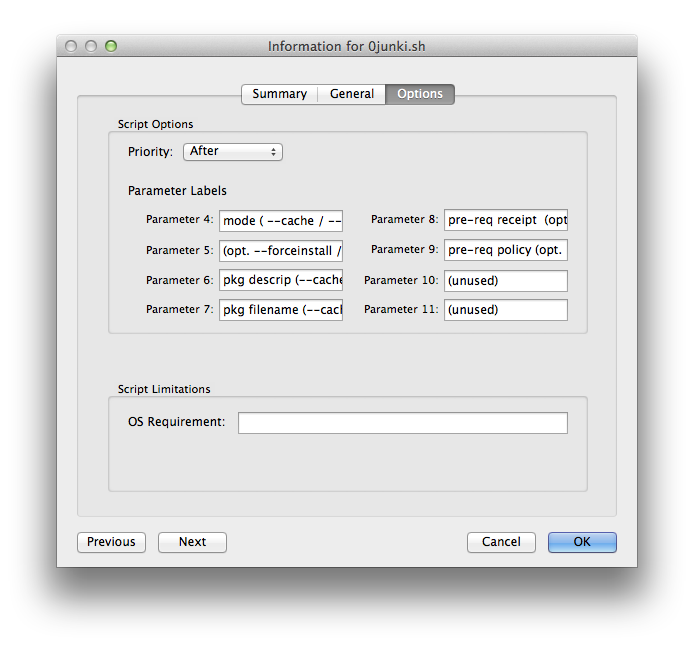
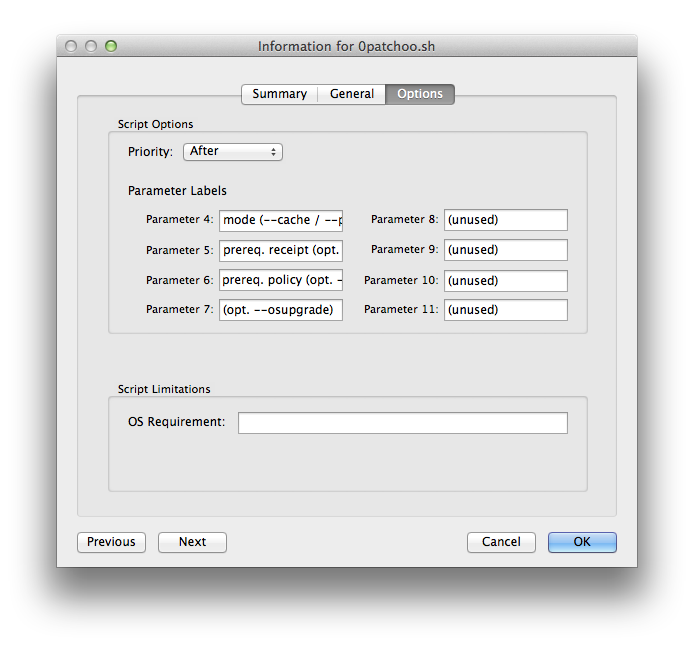
changes to parameters and order on patchoo.sh, docs updated, more docs to come!

Changed region(s): [[0.3026, 0.3096, 0.4841, 0.4954], [0.6354, 0.3096, 0.817, 0.4025], [0.3631, 0.0619, 0.6354, 0.0929]]

diff --git a/docs/deploying_software_via_policy.md b/docs/deploying_software_via_policy.md
@@ -3,18 +3,42 @@ Deploying Software via Casper Policies
 
 A key feature of patchoo (like munki) is that it unifies the deployment of both Apple and 3rd party software installations and patches. Not having different notifications and dialogs for software patches is better from a user experience perspective, and it builds trust that software deployed is vetted by IT.
 
-Deploying software via patchoo is probably quite similar to the way you've been deploying 3rd party patches without patchoo. You just add in a script, sprinkle with some metadata, and utilise a workflow around testing and beta groups.
+Deploying software via patchoo is probably quite similar to the way you've been deploying 3rd party patches without patchoo. With patchoo just add in a script that runs after your pkg cache, and utilise a workflow around testing and beta groups (cool!).
 
 This section will explain the workflow. It's more involved, as Apple aren't providing you with packages, and a logic around what should be installed.
 
 ### Upload your pkg into Casper Admin
 
-If you aren't using AutoPKG, I suggest you start. It does all the heavy lifting and can automate pkg creation.
+If you aren't using AutoPKG, I suggest you start. It does all the heavy lifting and can automate pkg creation. Why repackage stuff with Composer unless you really have to?
 
 I do suggest you follow AutoPKG's naming convention for your packages.
 
-AppName-xxx.pkg
+`AppName-xxx.pkg`
 
 When you start [deploying chained incremental patches](deploying_chained_incremental_patches.md), it's important that you are following a good naming convention. It will make you life much easier.
+
+### Give your pkg a friendly name
+
+The last thing we want our users seeing is an ugly name like `MSOffice2011-14.4.1.pkg`. Whilst it's not the end of the world, it's nice to have a friendly name pop up in the user facing GUI.
+
+Once you've uploaded your package, Get info on it and go to the General tab.
+
+Fill in the Info field with something nice.
+
+![vlc player](images/pkg_info.png)
+
+### Set Priority
+
+patchoo also respects the priority of pkgs when it deciphers the installation order (you can leave at default 10). For drag and drop installations, this is not important, but if you are installing incremental updates it's important you set the priority and don't leave it update to alphabetical sorting (which *could* work).
+
+Priority  | Pkg
+--------- | ------------- 
+10        | MSOffice2011-14.2.0.pkg
+11        | MSOffice2011-14.3.7.pkg
+12        | MSOffice2011-14.4.1.pkg
+
+This will ensure if they are installed at once they are applied in order. 
+
+
 
 

diff --git a/docs/_index.md b/docs/_index.md
@@ -15,12 +15,12 @@ Documentation
 	* [Setup JSS API access](setup_jss_api_access.md)
 	* [Configuring patchoo.sh](configuring_patchoo.sh.md)
 	* [Install patchoo.sh](install_patchoo.sh.md)
-	* [Setup Categories](setup_categories.md)
+	* [Setup Categories](setup_categories.md) -x
 	* [Install CocoaDialog](install_cocoadialog.md)
 	* [Install triggers](install_triggers.md)
 	* [Setup Extension Attributes](setup_extension_attributes.md)
-	* [Setup Smart Groups](setup_smart_groups.md)
-	* [Setup Core Policies](setup_core_policies.md)
+	* [Setup Smart Groups](setup_smart_groups.md) -x
+	* [Setup Core Policies](setup_core_policies.md) -x
 * [Deploying Apple Software Updates](deploying_apple_software_updates.md)
 * [Deploying Software via Casper Policies](deploying_software_via_policy.md)
 	* [Scoping Software Deployment Smart Groups](scoping_software_deployment_smart_groups.md)

diff --git a/docs/setup_extension_attributes.md b/docs/setup_extension_attributes.md
@@ -12,6 +12,6 @@ There are two main extension attributes patchoo needs.
 	* *Int* - patchoo defer counter (number of times a user has deferred install)
 	
 	
-[Smart Groups](setup_smart_groups.md) as scoped from the results of these extension attributes. eg. The [reminder policy](setup_core_policies.md) is scoped to Macs that have patchoo Installs available, on the every120 [trigger](install_triggers.md).
+[Smart Groups](setup_smart_groups.md) as scoped from the results of these extension attributes. eg. The [reminder and self service Install New Software policy](setup_core_policies.md) is scoped to Macs that have patchoo Installs available, on the every120 [trigger](install_triggers.md).
 
 You can import these directly into the JSS from the xml files, or copy and paste from the txt files provided.

diff --git a/docs/setup_core_policies.md b/docs/setup_core_policies.md
@@ -3,6 +3,7 @@ Setup Core Policies
 The following policies are the core of patchoo. They drive the caching, Apple Software Update, installation, logout, user prompts and installation reminders.
 
 It's recommended that you create a [category](setup_categories.md) to house them within your JSS.
+### Core
 
 * [patchooStart](#patchooStart)
 * [patchooCheckASU](#patchooCheckASU)
@@ -10,6 +11,12 @@ It's recommended that you create a [category](setup_categories.md) to house them
 * [patchooPromptAndInstallAtLogout](#patchooPromptAndInstallAtLogout)
 * [patchooStartup](#patchooStartup)
 * [patchooUpdateRemindPrompt](#patchooUpdateRemindPrompt)
+
+___
+### Self Service
+* [Check for New Software](#ssCheck)
+* [Install New Software](#ssInstall)
+
 
 
 ___

diff --git a/docs/install_patchoo.sh.md b/docs/install_patchoo.sh.md
@@ -14,12 +14,12 @@ Set the Parameter Labels as follows (don't worry, we'll explain what these are l
 
 Parameters  | Value
 ----------- | ------------- 
-Parameter 4 | mode ( --cache / --promptinstall )
-Parameter 5 | (opt. --forceinstall / --osupgrade) 
-Parameter 6 | pkg descrip (--cache) 
-Parameter 7 | pkg filename (--cache)
-Parameter 8 | pre-req receipt  (opt.  --cache) 
-Parameter 9 | pre-req policy (opt.  --cache) 
+Parameter 4 | mode (--cache / --promptinstall)
+Parameter 5 | prereq. receipt (opt. --cache) 
+Parameter 6 | prereq. policy (opt. --cache) 
+Parameter 7 | (opt. --osupgrade)
+Parameter 8 | (unused) 
+Parameter 9 | (unused) 
 Parameter 10| (unused) 
 Parameter 11| (unused)
  
